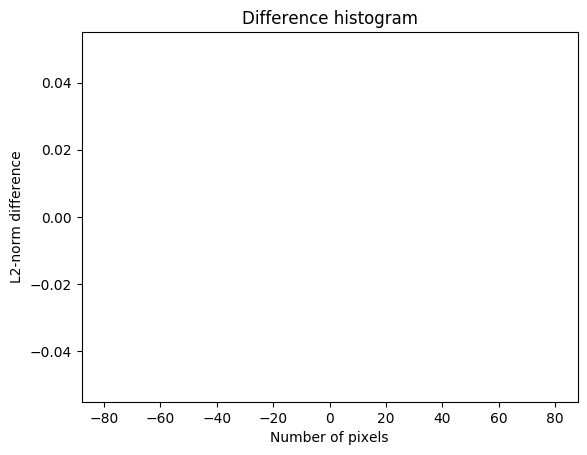
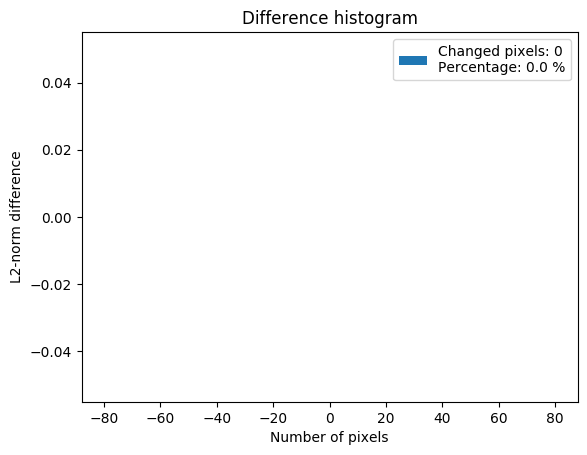
Updating diff figures, add set 3

Changed region(s): [[0.6746, 0.0923, 0.9813, 0.1846]]

diff --git a/doc/thesis/0_figures/compare_quality/set3/raw/crop.py b/doc/thesis/0_figures/compare_quality/set3/raw/crop.py
@@ -1,0 +1,84 @@
+import sys
+
+import cv2
+import matplotlib.pyplot as plt
+import numpy as np
+
+
+CORNER1 = (1100, 800)
+CORNER2 = (1500, 1200)
+
+
+def crop(file_name):
+    img = cv2.imread(file_name, cv2.IMREAD_UNCHANGED)
+    file_name = file_name[:-4] + "_center.png"
+    cv2.imwrite(file_name, img[CORNER1[1]:CORNER2[1], CORNER1[0]:CORNER2[0], :],
+                (cv2.IMWRITE_PNG_COMPRESSION, 9))
+
+    return file_name
+
+
+def frame(file_name):
+    img = cv2.imread(file_name, cv2.IMREAD_UNCHANGED)
+    color = (0, 0, 255, 255)
+    cv2.rectangle(img, CORNER1, CORNER2, color, thickness=3)
+    file_name = file_name[:-4] + "_frame.png"
+    cv2.imwrite(file_name, img, (cv2.IMWRITE_PNG_COMPRESSION, 9))
+
+    return file_name
+
+
+def create_diff_image(img_name, ref_img_name):
+    ref_img = cv2.imread(ref_img_name, cv2.IMREAD_UNCHANGED)
+    img = cv2.imread(img_name, cv2.IMREAD_UNCHANGED)
+    diff_img = np.zeros((img.shape[0],img.shape[1],1),np.int16)
+    diff_img[:,:,0] = np.linalg.norm(ref_img, axis=2) - np.linalg.norm(img, axis=2)
+    file_name = img_name[:-4] + "_diff.png"
+    cv2.imwrite(file_name, (diff_img + np.abs(np.min(diff_img))).astype(np.uint8), (cv2.IMWRITE_PNG_COMPRESSION, 9))
+
+    temp = diff_img
+    plt.figure()
+    plt.imshow(temp[:,:,0], interpolation='nearest', cmap='seismic', vmin=-80, vmax=80)
+    cbar = plt.colorbar()
+    cbar.ax.get_yaxis().labelpad = 10
+    cbar.ax.set_ylabel("L2-norm difference", rotation=270)
+    plt.title("Difference image")
+    plt.axis("off")
+    file_name = file_name[:-4] + "_heatmap.png"
+    plt.savefig(file_name, bbox_inches="tight")
+    plt.close()
+
+    plt.figure()
+    histo_vec = diff_img.flatten()
+    histo_vec = histo_vec[histo_vec != 0]
+    plt.hist(histo_vec, bins=161, range=(-80, 80))
+    plt.title("Difference histogram")
+    plt.xlabel("Number of pixels")
+    plt.ylabel("L2-norm difference")
+    plt.legend([f"Changed pixels: {len(histo_vec)}\nPercentage: {len(histo_vec)/len(temp.flatten())*100:.1f} %"])
+    file_name = file_name[:-len("_heatmap.png")] + "_histogram.png"
+    plt.savefig(file_name, bbox_inches="tight")
+    plt.close()
+
+    return file_name
+
+if __name__ == "__main__":
+    if len(sys.argv) > 1:
+        cropped = crop(sys.argv[1])
+        framed = frame(sys.argv[1])
+        diffed = create_diff_image(sys.argv[1], "png.png")
+        diffed = create_diff_image(cropped, "png_center.png")
+    else:
+        file_list = ["png.png",
+                     "jp2_1000.png",
+                     "jp2_100.png",
+                     "jp2_10.png",
+                     "jp2_1.png",
+                     "jp2_5.png",
+                     "jp2_4.png"]
+
+        for file_name in file_list:    
+            cropped = crop(file_name)
+            framed = frame(file_name)
+            diffed = create_diff_image(file_name, "png.png")
+            diffed = create_diff_image(cropped, "png_center.png")
